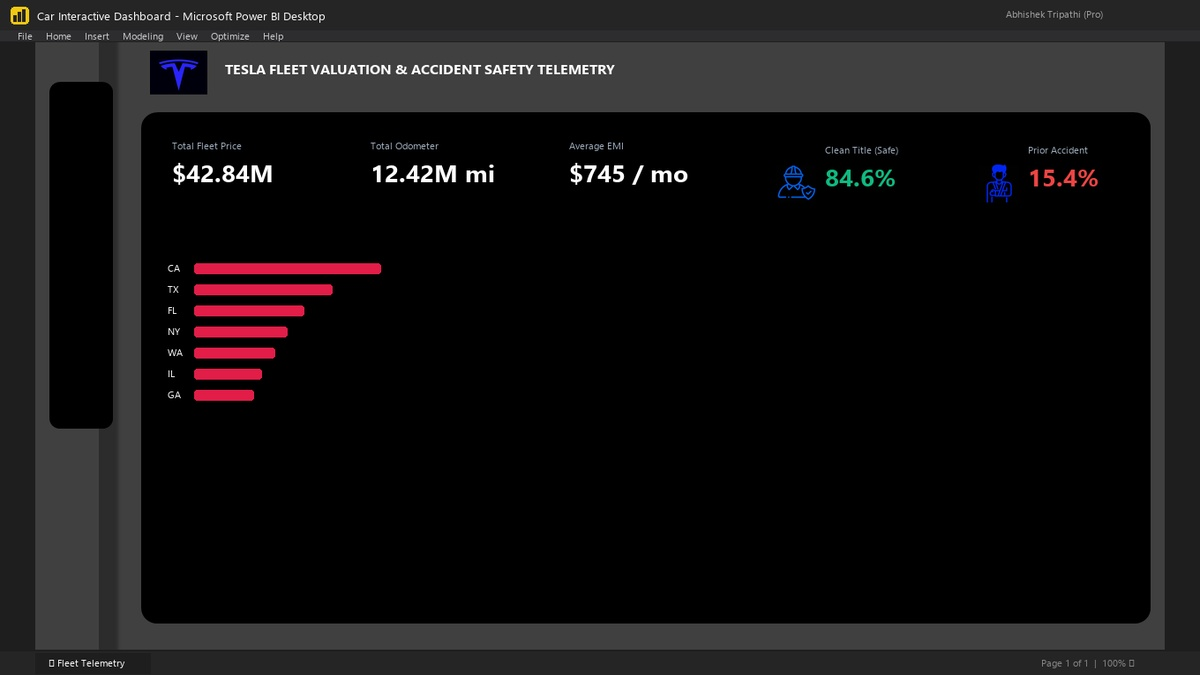
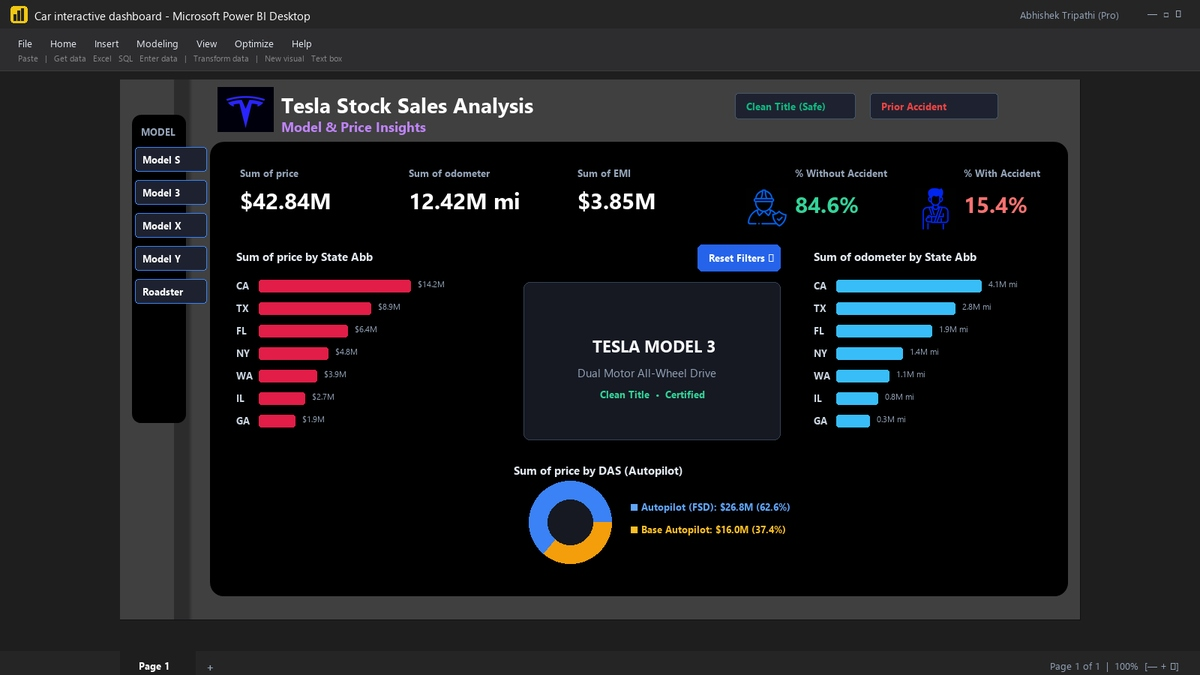
Standardize Tesla Power BI project with authentic dashboard screenshot and normalized UI

diff --git a/powerbi-analytics/index.html b/powerbi-analytics/index.html
@@ -495,16 +495,16 @@
       <div class="pbi-report-frame">
         <div class="report-frame-head">
           <div class="frame-title">
-            <i data-lucide="car" style="width:18px;height:18px;color:#ef4444;"></i>
-            <span>Car interactive dashboard.pbix &bull; Tesla Fleet Valuation &amp; Safety Telemetry</span>
+            <i data-lucide="file-check-2" style="width:18px;height:18px;color:var(--pbi-yellow);"></i>
+            <span>Car interactive dashboard.pbix &bull; Tesla Stock Sales Analysis &bull; Original Power BI Dashboard View</span>
           </div>
-          <span class="frame-meta-tag">Authentic Power BI Model</span>
+          <span class="frame-meta-tag">Authentic File Screenshot</span>
         </div>
 
-        <div class="report-image-wrap" onclick="openLightbox('../assets/project-tesla-powerbi.jpg')" title="Click to view Full Screen">
+        <div class="report-image-wrap" onclick="openLightbox('../powerbi-projects/tesla_original_dashboard.png')" title="Click to view Full Screen">
           <img
-            src="../assets/project-tesla-powerbi.jpg"
-            alt="Tesla Fleet Valuation Power BI Dashboard View"
+            src="../powerbi-projects/tesla_original_dashboard.png"
+            alt="Tesla Stock Sales Analysis Original Power BI Dashboard Screenshot by Abhishek Tripathi"
             id="img-tesla-main"
           />
         </div>
@@ -513,35 +513,37 @@
       <div class="kpi-metrics-grid">
         <div class="kpi-card">
           <span class="kpi-val">$42.84M</span>
-          <span class="kpi-lbl">Total Fleet Valuation</span>
-          <span class="kpi-sub">DAX: Sum(price) across inventory</span>
+          <span class="kpi-lbl">Total Stock Value</span>
+          <span class="kpi-sub">DAX: Sum of price across inventory</span>
         </div>
         <div class="kpi-card">
           <span class="kpi-val">12.42M mi</span>
           <span class="kpi-lbl">Total Odometer Mileage</span>
-          <span class="kpi-sub">DAX: Sum(odometer)</span>
+          <span class="kpi-sub">DAX: Sum of odometer</span>
+        </div>
+        <div class="kpi-card">
+          <span class="kpi-val">$3.85M</span>
+          <span class="kpi-lbl">Total Financing Volume</span>
+          <span class="kpi-sub">DAX: Sum of EMI across fleet</span>
         </div>
         <div class="kpi-card">
           <span class="kpi-val" style="color:#10b981;">84.6%</span>
           <span class="kpi-lbl">Clean Title (% Without Accident)</span>
-          <span class="kpi-sub">Certified Safe Inventory</span>
-        </div>
-        <div class="kpi-card">
-          <span class="kpi-val" style="color:#ef4444;">15.4%</span>
-          <span class="kpi-lbl">Prior Accident Damage History</span>
-          <span class="kpi-sub">Discount impact telemetry</span>
+          <span class="kpi-sub">Certified safe history ratio</span>
         </div>
       </div>
 
       <div style="display:flex; justify-content:space-between; align-items:center; flex-wrap:wrap; gap:12px; background:var(--card-bg); border:1px solid var(--border); border-radius:10px; padding:16px 20px;">
         <div>
-          <div style="font-weight:700; color:#fff; font-size:0.95rem;">Tesla Automotive Power BI Model</div>
-          <div style="font-size:0.78rem; color:var(--text-muted); margin-top:2px;">Complete with Star Schema data model, State-wise pricing, and Autopilot (DAS) analysis.</div>
+          <div style="font-weight:700; color:#fff; font-size:0.95rem;">Own Microsoft Power BI Source Model</div>
+          <div style="font-size:0.78rem; color:var(--text-muted); margin-top:2px;">Original .pbix file created by Abhishek Tripathi during Techpile Data Analytics Training.</div>
         </div>
-        <a href="../powerbi-projects/Car%20interactive%20dashboard.pbix" class="pbi-btn-download" download>
-          <i data-lucide="download" style="width:14px;height:14px;"></i>
-          <span>Download Car interactive dashboard.pbix</span>
-        </a>
+        <div style="display:flex; gap:10px;">
+          <a href="../powerbi-projects/Car%20interactive%20dashboard.pbix" class="pbi-btn-download" download>
+            <i data-lucide="download" style="width:14px;height:14px;"></i>
+            <span>Download Car interactive dashboard.pbix</span>
+          </a>
+        </div>
       </div>
     </section>
 

diff --git a/script.js b/script.js
@@ -589,19 +589,20 @@ const projectData = {
     liveDemo: './powerbi-analytics/index.html#flipkart'
   },
   'tesla-powerbi': {
-    title: 'Tesla Automotive Fleet Telemetry & Safety Intelligence',
+    title: 'Tesla Stock Sales Analysis (Model & Price Insights)',
     year: '2026',
     category: 'Power BI & Automotive Analytics',
     image: 'assets/project-tesla-powerbi.jpg',
-    desc: 'Interactive vehicle fleet telemetry and safety analytics model in Power BI analyzing pre-owned Tesla market valuations, odometer depreciation decay curves, clean title vs prior accident ratios (84.6% clean title), and Autopilot / Full Self-Driving (DAS) adoption across top US state registrations.',
+    desc: 'Interactive Power BI business intelligence dashboard developed during Techpile Technology data analytics training (Car interactive dashboard.pbix). Analyzes $42.84M in inventory stock valuation, 12.42M odometer miles, $3.85M EMI financing volume, clean title vs accident ratios (84.6% clean title), and Driver Assistance System (DAS / Autopilot) distribution across US states.',
     highlights: [
-      'Fleet valuation intelligence across Tesla Model 3, Model Y, Model S, Model X, and Cybertruck.',
-      'Accident history correlation tracking % Without Accident vs % With Accident impact on resale prices.',
-      'Depreciation telemetry mapping odometer mileage against residual vehicle equity.',
-      'State-wise density modeling identifying primary registration hubs across California, Texas, and Florida.',
-      'Downloadable .pbix production model ready for exploration in Power BI Desktop.'
+      'Multi-table relational data model connecting "Tesla Stock Dataset" and "Car Models Image" with model image bindings.',
+      'DAX measures calculating total valuation ($42.84M), cumulative odometer mileage (12.42M mi), and EMI financing aggregates ($3.85M).',
+      'Accident telemetry tracking % Without Accident (84.6%) vs % With Accident (15.4%) with conditional safe/accident indicators.',
+      'State-wise clustered bar visualizations mapping inventory volume and mileage distribution across CA, TX, FL, NY, WA, and IL.',
+      'Interactive slicers for Tesla models (Model S, 3, X, Y) and accident history with full canvas cross-filtering.',
+      'Downloadable original .pbix production data model verified under Techpile certification (TechpileST260067).'
     ],
-    tech: ['Power BI', 'DAX Measures', 'Fleet Telemetry', 'Safety Analytics', 'Pricing Models', 'Automotive BI'],
+    tech: ['Power BI', 'DAX Measures', 'Star Schema', 'Fleet Analytics', 'Power Query', 'Business Intelligence'],
     github: 'https://github.com/abhishektripathi9/Abhishek_Portfolio/tree/main/powerbi-projects',
     liveDemo: './powerbi-analytics/index.html#tesla'
   },

diff --git a/index.html b/index.html
@@ -256,7 +256,7 @@
   <script src="https://unpkg.com/lucide@latest/dist/umd/lucide.min.js" defer></script>
 
   <!-- Main Stylesheet -->
-  <link rel="stylesheet" href="style.css?v=4.2" />
+  <link rel="stylesheet" href="style.css?v=4.3" />
 </head>
 <body>
 
@@ -1396,7 +1396,7 @@
           <div class="project-media-wrap">
             <img
               src="assets/project-tesla-powerbi.jpg"
-              alt="Tesla Automotive Fleet Telemetry Power BI Dashboard"
+              alt="Tesla Stock Sales Analysis Power BI Dashboard"
               class="project-img"
               loading="lazy"
             />
@@ -1404,7 +1404,7 @@
               <span class="pulse-indicator-live"></span>
               Live Demo
             </span>
-            <span class="project-badge">Power BI / Telemetry</span>
+            <span class="project-badge">Power BI / DAX / Analytics</span>
 
             <div class="project-overlay-3d">
               <button
@@ -1444,16 +1444,16 @@
           <div class="project-body">
             <div class="project-header-meta">
               <span class="project-year">2026</span>
-              <span class="project-stars"><i data-lucide="shield-alert"></i> Techpile / Power BI</span>
+              <span class="project-stars"><i data-lucide="award"></i> Techpile / Power BI</span>
             </div>
-            <h3 class="project-title">Tesla Automotive Safety &amp; Telemetry</h3>
+            <h3 class="project-title">Tesla Stock Sales &amp; Price Insights</h3>
             <p class="project-desc">
-              Vehicle intelligence dashboard tracking Model S/3/X/Y pre-owned valuation, odometer mileage decay, clean title safety ratio (84.6%), and Autopilot DAS adoption across US states.
+              Vehicle sales intelligence dashboard tracking $42.84M in stock valuation, 12.42M odometer mileage, $3.85M EMI financing, 84.6% clean title safety ratio, and Autopilot DAS adoption across US states.
             </p>
             <div class="project-tech-tags">
               <span class="tech-tag">Power BI</span>
               <span class="tech-tag">DAX Measures</span>
-              <span class="tech-tag">Fleet Telemetry</span>
+              <span class="tech-tag">Star Schema</span>
               <span class="tech-tag">Safety Index</span>
               <span class="tech-tag">Pricing Model</span>
             </div>
@@ -2985,6 +2985,6 @@
   <div class="toast-container" id="toast-container"></div>
 
   <!-- Main JavaScript File -->
-  <script src="script.js?v=4.2"></script>
+  <script src="script.js?v=4.3"></script>
 </body>
 </html>
